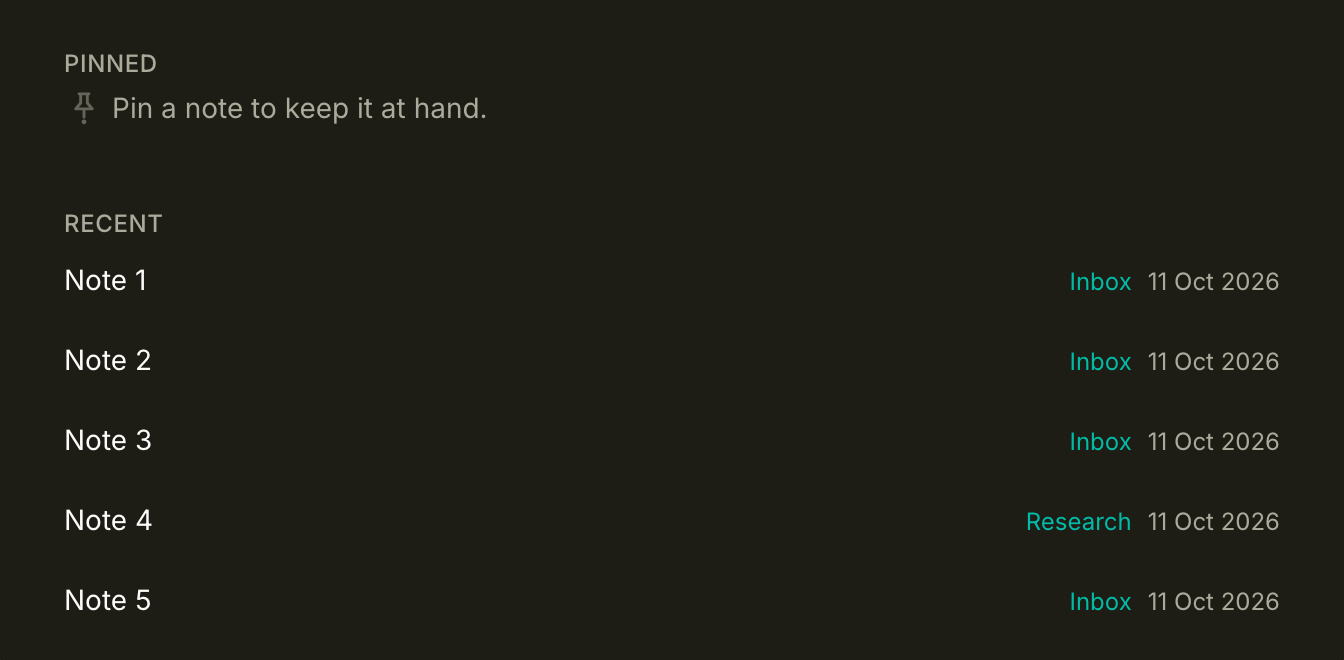
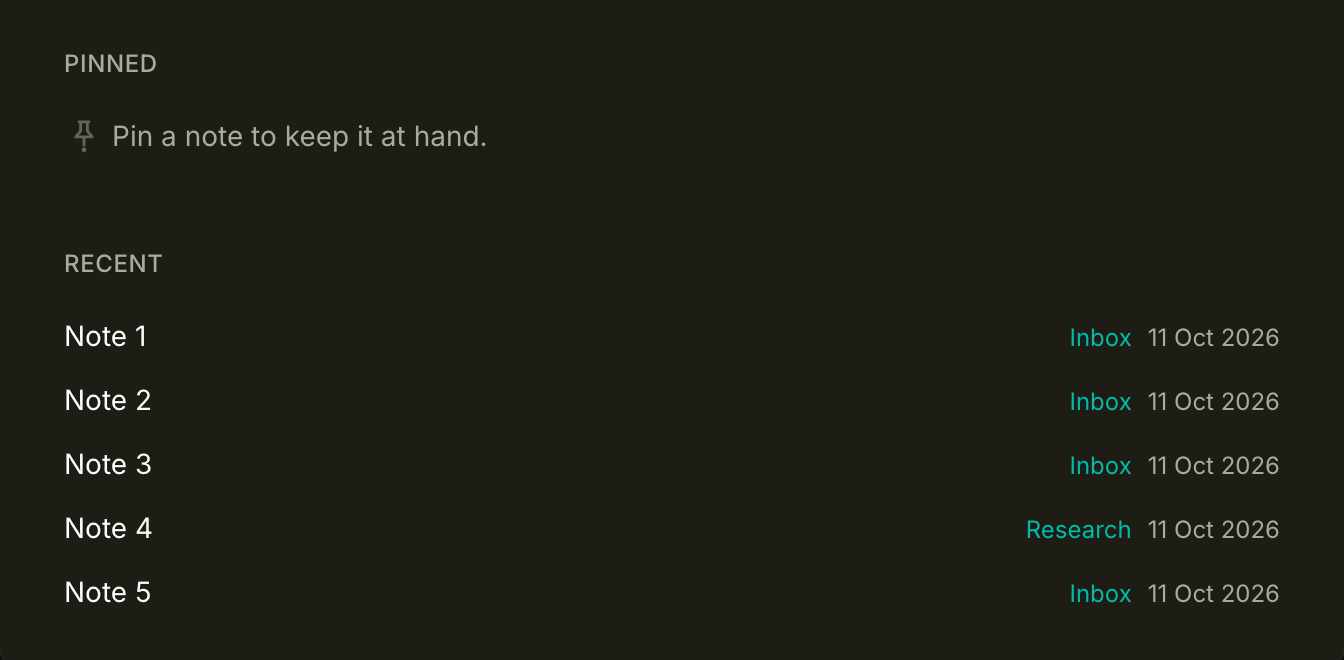
fix(today): set note headings clear of a tighter list

diff --git a/src/lib/components/today/workspace/today-triage.svelte b/src/lib/components/today/workspace/today-triage.svelte
@@ -115,13 +115,13 @@
 <!-- Pinned takes a column only when it has notes; empty, it is one quiet line
      above a full-width Recent rather than half the page holding an invitation. -->
 <div class={['grid gap-x-group gap-y-section', view.pinnedNotes.length > 0 && 'lg:grid-cols-2']}>
-	<!-- The eyebrow binds to its list a step tighter than the rows sit to each other,
-	     so it reads as the list's label rather than its first row. -->
-	<section class="flex flex-col gap-bind" aria-label="Pinned notes">
+	<!-- Rows stack on their own padding, and the eyebrow sits a `row` step above them:
+	     the label stands clear of its list, and the notes read as one run. -->
+	<section class="flex flex-col gap-row" aria-label="Pinned notes">
 		<h2 class="eyebrow">Pinned</h2>
 		{#if view.pinnedNotes.length > 0}
 			<!-- -mx-2 hangs the row padding outside the column so titles align with the eyebrow. -->
-			<div class="-mx-2 flex flex-col gap-item">
+			<div class="-mx-2 flex flex-col">
 				{#each view.pinnedNotes as note (note.id)}
 					{@render noteRow(note, true)}
 				{/each}
@@ -130,14 +130,14 @@
 			<EmptyState
 				icon={Icon.Pin}
 				title="Pin a note to keep it at hand."
-				class="flex-row justify-start gap-2 py-0 text-left"
+				class="flex-row justify-start gap-2 py-1.5 text-left"
 			/>
 		{/if}
 	</section>
-	<section class="flex flex-col gap-bind" aria-label="Recently edited notes">
+	<section class="flex flex-col gap-row" aria-label="Recently edited notes">
 		<h2 class="eyebrow">Recent</h2>
 		{#if view.recentNotes.length > 0}
-			<div class="-mx-2 flex flex-col gap-item">
+			<div class="-mx-2 flex flex-col">
 				{#each view.recentNotes as note (note.id)}
 					{@render noteRow(note, false)}
 				{/each}
